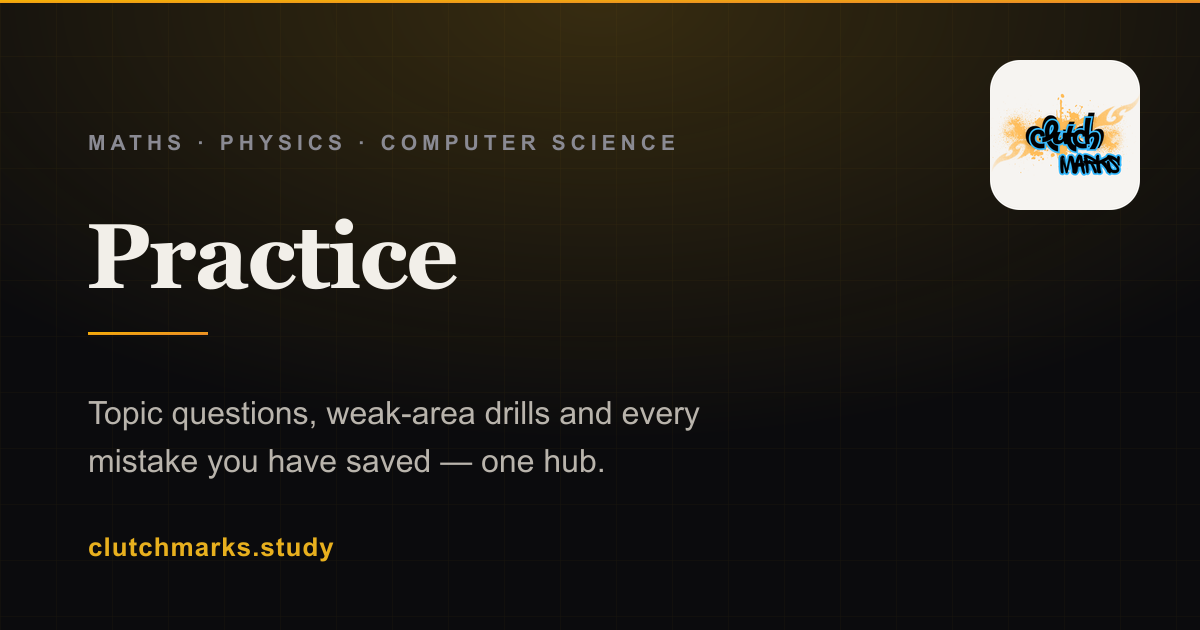
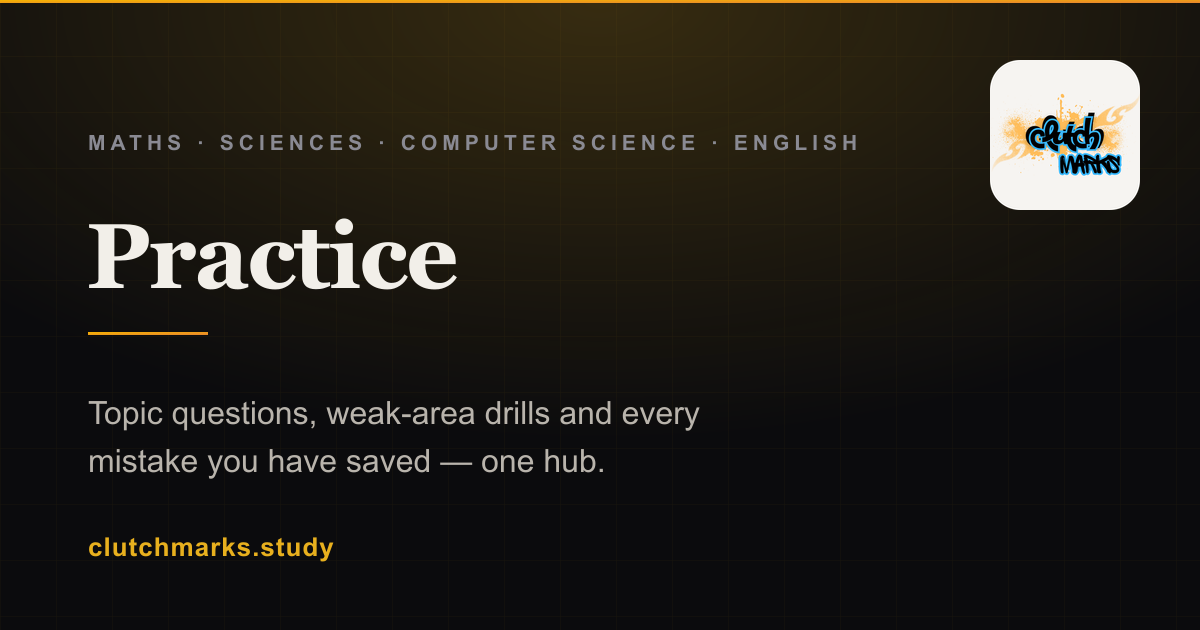
Auto-sync: code + content backup (2026-10-21 09:37)

Changed region(s): [[0.185, 0.2111, 0.7092, 0.2413]]

diff --git a/frontend/src/lib/seoRoutes.ts b/frontend/src/lib/seoRoutes.ts
@@ -54,7 +54,7 @@ const organization = {
   name: SITE_NAME,
   url: `${SITE_URL}/`,
   description:
-    "Online revision platform for Maths, Physics and Computer Science at IGCSE, AS and A2 — notes, exam-style topic questions with instant marking, and a past-paper archive.",
+    "Online revision platform for Maths, Physics, Chemistry, Biology, Computer Science and English at IGCSE, AS and A2 — notes, exam-style topic questions with instant marking, and a past-paper archive.",
   logo: {
     "@type": "ImageObject",
     url: `${SITE_URL}/icon-512.png`,
@@ -75,7 +75,7 @@ export function ogImageUrl(meta: Pick<RouteMeta, "ogImage">): string {
 export const FAQ_ITEMS: { q: string; a: string }[] = [
   {
     q: "What subjects and levels does Clutch Marks cover?",
-    a: "Maths, Physics and Computer Science at IGCSE, AS and A2. Every subject has topic notes, exam-style questions with instant marking, and a past-paper archive with mark schemes.",
+    a: "Maths, Physics, Chemistry, Biology, Computer Science and English at IGCSE, AS and A2. Every subject has topic notes, exam-style questions with instant marking, and a past-paper archive.",
   },
   {
     q: "How much does Clutch Marks cost?",
@@ -112,7 +112,7 @@ const course = {
   "@type": "Course",
   name: "Clutch Marks — Maths, Physics & Computer Science Revision",
   description:
-    "Self-paced Maths, Physics and Computer Science revision for IGCSE, AS and A2: topic notes, exam-style questions with instant AI marking, flashcards and past papers with mark schemes.",
+    "Self-paced revision for Maths, Physics, Chemistry, Biology, Computer Science and English at IGCSE, AS and A2: topic notes, exam-style questions with instant AI marking, flashcards and past papers.",
   url: `${SITE_URL}/pricing`,
   inLanguage: "en",
   educationalLevel: ["IGCSE", "AS Level", "A2 Level"],
@@ -186,7 +186,7 @@ export const ROUTE_META: RouteMeta[] = [
     // kind of inconsistency that leaves a stale title in the index for weeks.
     title: "Clutch Marks — Revision Notes, Topic Questions & Past Papers",
     description:
-      "Revision notes, exam-style topic questions with instant marking, and past papers with mark schemes for Maths, Physics and Computer Science at IGCSE, AS and A2.",
+      "Revision notes, exam-style topic questions with instant marking, and past papers with mark schemes for Maths, Physics, Chemistry, Biology, Computer Science and English at IGCSE, AS and A2.",
     jsonLd: [
       {
         "@context": "https://schema.org",
@@ -197,7 +197,7 @@ export const ROUTE_META: RouteMeta[] = [
         alternateName: ["ClutchMarks", "clutchmarks.study"],
         url: `${SITE_URL}/`,
         description:
-          "Study Maths, Physics and Computer Science at IGCSE, AS and A2 with interactive lessons, practice quizzes and revision tools.",
+          "Study Maths, Physics, Chemistry, Biology, Computer Science and English at IGCSE, AS and A2 with interactive lessons, practice quizzes and revision tools.",
       },
       { "@context": "https://schema.org", ...organization },
     ],
@@ -206,7 +206,7 @@ export const ROUTE_META: RouteMeta[] = [
     path: "/auth",
     title: "Log In or Sign Up — Clutch Marks",
     description:
-      "Log in to Clutch Marks or create an account to access lessons, topic notes, quizzes and past papers for Maths, Physics and Computer Science.",
+      "Log in to Clutch Marks or create an account to access lessons, topic notes, quizzes and past papers for Maths, Physics, Chemistry, Biology, Computer Science and English.",
     // A sign-in page must never be what Google shows for the domain.
     noindex: true,
   },
@@ -230,7 +230,7 @@ export const ROUTE_META: RouteMeta[] = [
     ogImage: "/og/lessons.png",
     title: "Lessons — Clutch Marks",
     description:
-      "Browse structured lessons covering the full syllabus with video and text content for Maths, Physics and Computer Science.",
+      "Browse structured lessons covering the full syllabus with video and text content for Maths, Physics, Chemistry, Biology, Computer Science and English.",
     jsonLd: {
       "@context": "https://schema.org",
       "@type": "CollectionPage",
@@ -254,7 +254,7 @@ export const ROUTE_META: RouteMeta[] = [
       name: "Topic Notes",
       url: `${SITE_URL}/notes`,
       description:
-        "Downloadable topic notes for Maths, Physics and Computer Science at IGCSE, AS and A2.",
+        "Downloadable topic notes for Maths, Physics, Chemistry, Biology, Computer Science and English at IGCSE, AS and A2.",
       isPartOf: { "@type": "WebSite", name: SITE_NAME, url: `${SITE_URL}/` },
       publisher: organization,
     },
@@ -326,18 +326,18 @@ export const ROUTE_META: RouteMeta[] = [
   },
   {
     path: "/study/:slug/:level/:topic/notes",
-    title: ":topic — Notes | :subject :level | Clutch Marks",
+    title: ":topic — Notes | :subject :levelLabel | Clutch Marks",
     description: "Revision notes, topic questions and past papers for :topic in :subject :levelLabel.",
   },
   {
     path: "/study/:slug/:level/:topic/quiz",
-    title: ":topic — Quiz | :subject :level | Clutch Marks",
+    title: ":topic — Quiz | :subject :levelLabel | Clutch Marks",
     description:
       "Exam-style topic questions for :topic in :subject :levelLabel. Instant marking, worked answers and AI feedback.",
   },
   {
     path: "/study/:slug/:level/:topic/papers",
-    title: ":topic — Papers | :subject :level | Clutch Marks",
+    title: ":topic — Papers | :subject :levelLabel | Clutch Marks",
     description:
       "Past papers and mark schemes for :topic in :subject :levelLabel. Practise under real exam conditions with papers sorted by year.",
   },

diff --git a/index.html b/index.html
@@ -16,7 +16,7 @@
     <link rel="apple-touch-icon" sizes="180x180" href="/icon-180.png" />
     <link rel="manifest" href="/site.webmanifest" />
     <title>Clutch Marks — Maths, Physics &amp; Computer Science Revision</title>
-    <meta name="description" content="Revision notes, exam-style topic questions with instant marking, and past papers with mark schemes for Maths, Physics and Computer Science at IGCSE, AS and A2." />
+    <meta name="description" content="Revision notes, exam-style topic questions with instant marking, and past papers with mark schemes for Maths, Physics, Chemistry, Biology, Computer Science and English at IGCSE, AS and A2." />
 
     <!-- Default robots directives for the canonical host. Two documents are
          derived from this shell, and the prerender plugin gives each its own
@@ -31,13 +31,15 @@
     <meta name="robots" content="index, follow, max-image-preview:large, max-snippet:-1, max-video-preview:-1" />
 
     <!-- Brand fonts: display serif + UI sans + tabular mono for marks and timers.
-         Loaded as a plain stylesheet link (in parallel with the app CSS) rather
-         than a CSS @import, which serialized behind the bundle and delayed
-         first paint on every visit. display=swap keeps text visible while the
-         faces load. -->
-    <link rel="preconnect" href="https://fonts.googleapis.com" />
-    <link rel="preconnect" href="https://fonts.gstatic.com" crossorigin />
-    <link rel="stylesheet" href="https://fonts.googleapis.com/css2?family=Fraunces:opsz,wght@9..144,400;9..144,500;9..144,600;9..144,700&family=Inter:wght@300;400;500;600;700&family=JetBrains+Mono:wght@400;500;600&family=Roboto+Mono:wght@400;500;700&display=swap" />
+         Self-hosted (scripts/fetch-fonts.cjs writes public/fonts/*.woff2 and
+         src/fonts.css): the old <link> to fonts.googleapis.com was a
+         render-blocking third-party stylesheet — HTML → googleapis CSS →
+         gstatic woff2 — before first paint on every page. The @font-face rules
+         ship inside this bundle's CSS, and the two preloads below start the
+         body/display faces downloading in parallel with the HTML itself.
+         font-display: swap keeps text visible while they load. -->
+    <link rel="preload" href="/fonts/fraunces-400-latin.woff2" as="font" type="font/woff2" crossorigin />
+    <link rel="preload" href="/fonts/inter-400-latin.woff2" as="font" type="font/woff2" crossorigin />
     <meta name="theme-color" content="#0B0B0D" media="(prefers-color-scheme: dark)" />
     <meta name="theme-color" content="#FFFDF9" media="(prefers-color-scheme: light)" />
 

diff --git a/plugins/prerender-seo.ts b/plugins/prerender-seo.ts
@@ -207,6 +207,36 @@ export function prerenderSeo(): Plugin {
         );
       }
 
+      // Inline the app stylesheet into the shell's <head>, so first paint needs
+      // no second network round trip. On a throttled connection the old shape —
+      // HTML, then a render-blocking /assets/index-*.css discovered inside it —
+      // was most of PageSpeed's "render-blocking requests, est. savings of
+      // 1,210 ms" on every one of these pages. Inlined, the bytes ride along
+      // with the HTML the host was sending anyway (gzip keeps the transfer size
+      // about the same) and there is no CSS request to block on. Every page
+      // written below inherits it from this shell, so the change is one place.
+      // Dev is untouched: this plugin runs on `build` only.
+      const cssLink = shell.match(/<link\s+rel="stylesheet"[^>]*href="(\/[^"]+\.css)"[^>]*>/);
+      if (cssLink) {
+        const cssPath = resolve(outDir, cssLink[1].replace(/^\//, ""));
+        try {
+          const css = readFileSync(cssPath, "utf8");
+          // A literal "</style" inside the CSS would close the element early;
+          // CSS-escaping the slash keeps the sequence inert in both places.
+          const safe = css.replace(/<\/style/gi, "<\\/style");
+          shell = shell.replace(cssLink[0], () => `<style data-inlined="app-css">${safe}</style>`);
+          console.log(
+            `prerender-seo: inlined app CSS (${(css.length / 1024).toFixed(0)} KiB raw) — no render-blocking stylesheet request`,
+          );
+        } catch (e) {
+          // Pages still work with a linked stylesheet; say so rather than
+          // failing the build over a performance nicety.
+          console.warn(`prerender-seo: could not inline ${cssLink[1]} (${e.message}) — stylesheet stays linked`);
+        }
+      } else {
+        console.warn("prerender-seo: no local stylesheet link in the shell — nothing to inline");
+      }
+
       // Same list the runtime routes live in, minus the parameterised ones:
       // those are written below, one real file per topic instead of one
       // placeholder (a colon path is not a directory name on Windows either).

diff --git a/src/pages/Index.tsx b/src/pages/Index.tsx
@@ -15,10 +15,10 @@ import {
 
 /** Counts verified against the live database — keep honest or update together. */
 const TRACKS = [
-  { label: "Subjects", value: "3", detail: "Maths · Physics · Computer Science" },
+  { label: "Subjects", value: "7", detail: "Maths · Physics · Chemistry · Biology · CS · English" },
   { label: "Levels", value: "IGCSE · AS · A2", detail: "IGCSE to A Level" },
   { label: "Past papers", value: "700+", detail: "Catalogued with mark schemes" },
-  { label: "Exams covered", value: "0580 · 0625 · 0478 · 9618 · IAL", detail: "Cambridge & Edexcel" },
+  { label: "Exams covered", value: "12 exams", detail: "Cambridge · Edexcel · Oxford" },
 ];
 
 const TOOLS = [
@@ -90,7 +90,7 @@ export default function Index() {
         <section className="relative overflow-hidden bloom">
           <div className="container relative px-4 pt-20 pb-16 text-center lg:pt-28 lg:pb-24">
             <p className="eyebrow mb-6">
-              IGCSE &middot; AS &middot; A Level — Cambridge &amp; Edexcel
+              IGCSE &middot; AS &middot; A Level — Cambridge, Edexcel &amp; Oxford
             </p>
 
             <h1 className="display-xl mx-auto max-w-4xl text-[2.75rem] sm:text-6xl lg:text-[4.5rem]">
@@ -100,7 +100,8 @@ export default function Index() {
             <p className="lede mx-auto mt-7 text-center">
               Concise revision notes, exam-style topic questions marked instantly, a full
               past-paper archive — and AI marking of your solved scripts against the official
-              mark schemes — everything you need for Maths, Physics and Computer Science,
+              mark schemes — everything you need for Maths, Physics, Chemistry,
+              Biology, Computer Science and English,
               in one place.
             </p>
 

diff --git a/frontend/src/lib/levels.ts b/frontend/src/lib/levels.ts
@@ -17,20 +17,23 @@ export const LEVELS: SubjectLevelCode[] = ["OL", "IGCSE", "AS", "A2"];
 export const DEFAULT_SUBJECT_LEVELS: SubjectLevelCode[] = ["OL", "AS", "A2"];
 
 /**
- * What a student sees. "OL" is kept as a code (it is in every URL, in the DB
- * enum and in the topic manifest) and is relabelled "O Level" so it no longer
- * reads the same as IGCSE. IGCSE is its own code and label. Change the label,
+ * What a student sees. "OL" stays as a code (it is in every URL, in the DB
+ * enum and in the topic manifest) and is labelled "IGCSE", because that is what
+ * the syllabi behind it actually are — 0580/0610/0620/0625/0478 are Cambridge
+ * IGCSE papers, and students search "IGCSE Biology", not "O Level Biology".
+ * The IGCSE *code* (used by the English subjects) carries the same label; two
+ * codes, one qualification name, and the URLs stay distinct. Change the label,
  * not the code — topicUrl/topicSeo/topicSeo tests all key off it.
  */
 export const LEVEL_LABELS: Record<SubjectLevelCode, string> = {
-  OL: "O Level",
+  OL: "IGCSE",
   IGCSE: "IGCSE",
   AS: "AS Level",
   A2: "A2 Level",
 };
 
 export const LEVEL_DESCRIPTIONS: Record<SubjectLevelCode, string> = {
-  OL: "O Level foundations",
+  OL: "IGCSE foundations",
   IGCSE: "IGCSE foundations",
   AS: "First year of A Level",
   A2: "Second year of A Level",

diff --git a/frontend/src/lib/site.ts b/frontend/src/lib/site.ts
@@ -14,7 +14,7 @@ export const SITE = {
   url: SITE_URL,
   tagline: "Revise smarter. Score higher.",
   description:
-    "Revision notes, exam-style topic questions with instant marking, and past papers with mark schemes for Maths, Physics and Computer Science at IGCSE, AS Level and A2 Level.",
+    "Revision notes, exam-style topic questions with instant marking, and past papers with mark schemes for Maths, Physics, Chemistry, Biology, Computer Science and English at IGCSE, AS Level and A2 Level.",
   // The inbox the privacy notice, data-rights page and app shell all point at.
   // It must stay the address that is actually live (inbound routed via Resend —
   // see docs/infrastructure.md): a personal mailbox here silently publishes a

diff --git a/frontend/src/lib/topicSeo.ts b/frontend/src/lib/topicSeo.ts
@@ -130,9 +130,9 @@ export function topicHead(
   return {
     path,
     // "| Clutch Marks" is dropped from neither the brand nor the topic: the topic
-    // name leads (that is what a search matched), the level code qualifies it,
-    // and the brand closes it.
-    title: `${input.topicName} — ${copy.titleLabel} | ${input.subjectName} ${input.level.toUpperCase()} | ${SITE_NAME}`,
+    // name leads (that is what a search matched), the level label qualifies it
+    // ("IGCSE", not the OL code that lives in the URL), and the brand closes it.
+    title: `${input.topicName} — ${copy.titleLabel} | ${input.subjectName} ${label} | ${SITE_NAME}`,
     description: copy.description(ctx),
     jsonLd: [
       {

diff --git a/src/pages/NotFound.tsx b/src/pages/NotFound.tsx
@@ -14,7 +14,7 @@ const NotFound = () => {
     <div className="flex min-h-screen items-center justify-center bg-muted">
       <SEOHead
         title="Page Not Found (404) — Clutch Marks"
-        description="This Clutch Marks page doesn't exist or has moved. Head back to the home page to find Maths, Physics and Computer Science revision resources."
+        description="This Clutch Marks page doesn't exist or has moved. Head back to the home page to find Maths, Physics, Chemistry, Biology, Computer Science and English revision resources."
         path={location.pathname}
         noindex
       />

diff --git a/src/index.css b/src/index.css
@@ -1,5 +1,9 @@
-/* Brand fonts load from a <link> in index.html (parallel with this bundle),
-   not a CSS @import — see the note there. */
+/* Brand fonts, self-hosted: @font-face rules generated by
+   scripts/fetch-fonts.cjs into src/fonts.css (public/fonts/*.woff2 alongside).
+   This @import must stay the first rule in this file — CSS @import has to
+   precede other rules — and it is local, so Vite inlines it into this bundle
+   instead of adding a network round trip. */
+@import "./fonts.css";
 @tailwind base;
 @tailwind components;
 @tailwind utilities;
